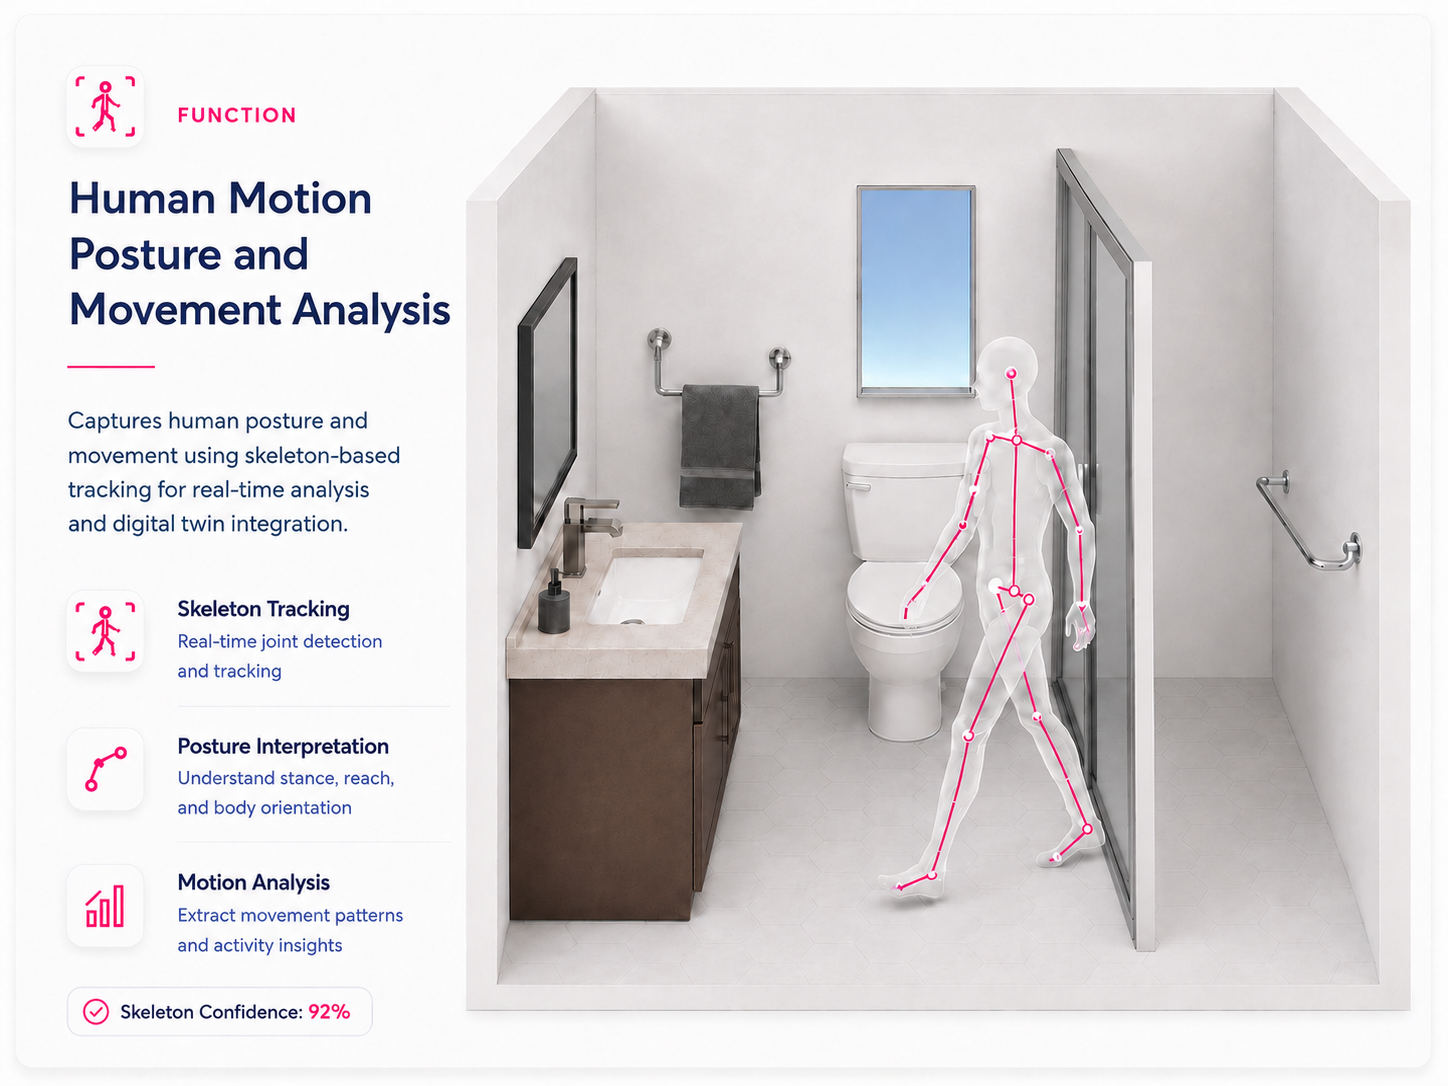
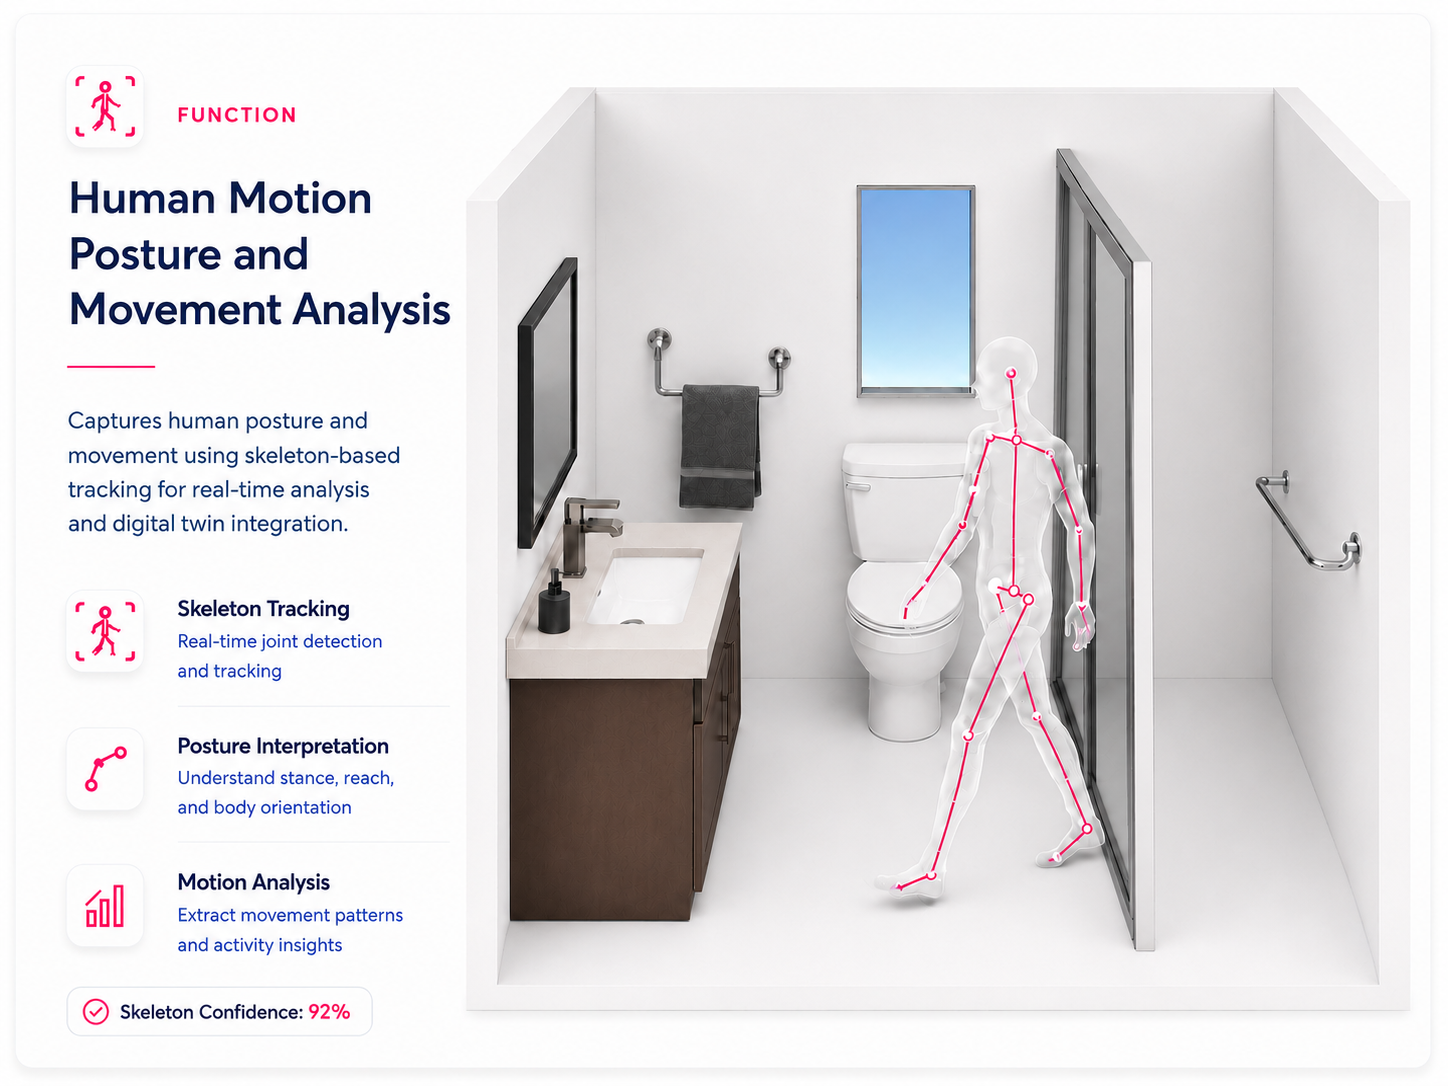
Add files via upload

diff --git a/index.html b/index.html
@@ -704,6 +704,13 @@ a{color:inherit;text-decoration:none}
       </div>
       <div class="support-caption">Human motion posture and movement analysis supported by skeleton tracking, posture interpretation, and motion analysis.</div>
     </div>
+
+    <div class="support-card">
+      <div class="support-image-wrap">
+        <img src="assets/function2.png" alt="Contact heatmap and risk visualization" onclick="openImage(this)">
+      </div>
+      <div class="support-caption">Repeated contact evidence and hotspot visualization for interpretable bathroom safety analysis.</div>
+    </div>
   </section>
 
 

diff --git a/interview.html b/interview.html
@@ -4,6 +4,7 @@
   <meta charset="utf-8">
   <meta name="viewport" content="width=device-width, initial-scale=1">
   <title>Case Study | Bathroom Digital Twin</title>
+  <link rel="shortcut icon" href="TemplateData/favicon.ico">
   <style>
 :root{
   --bg:#ffffff;
